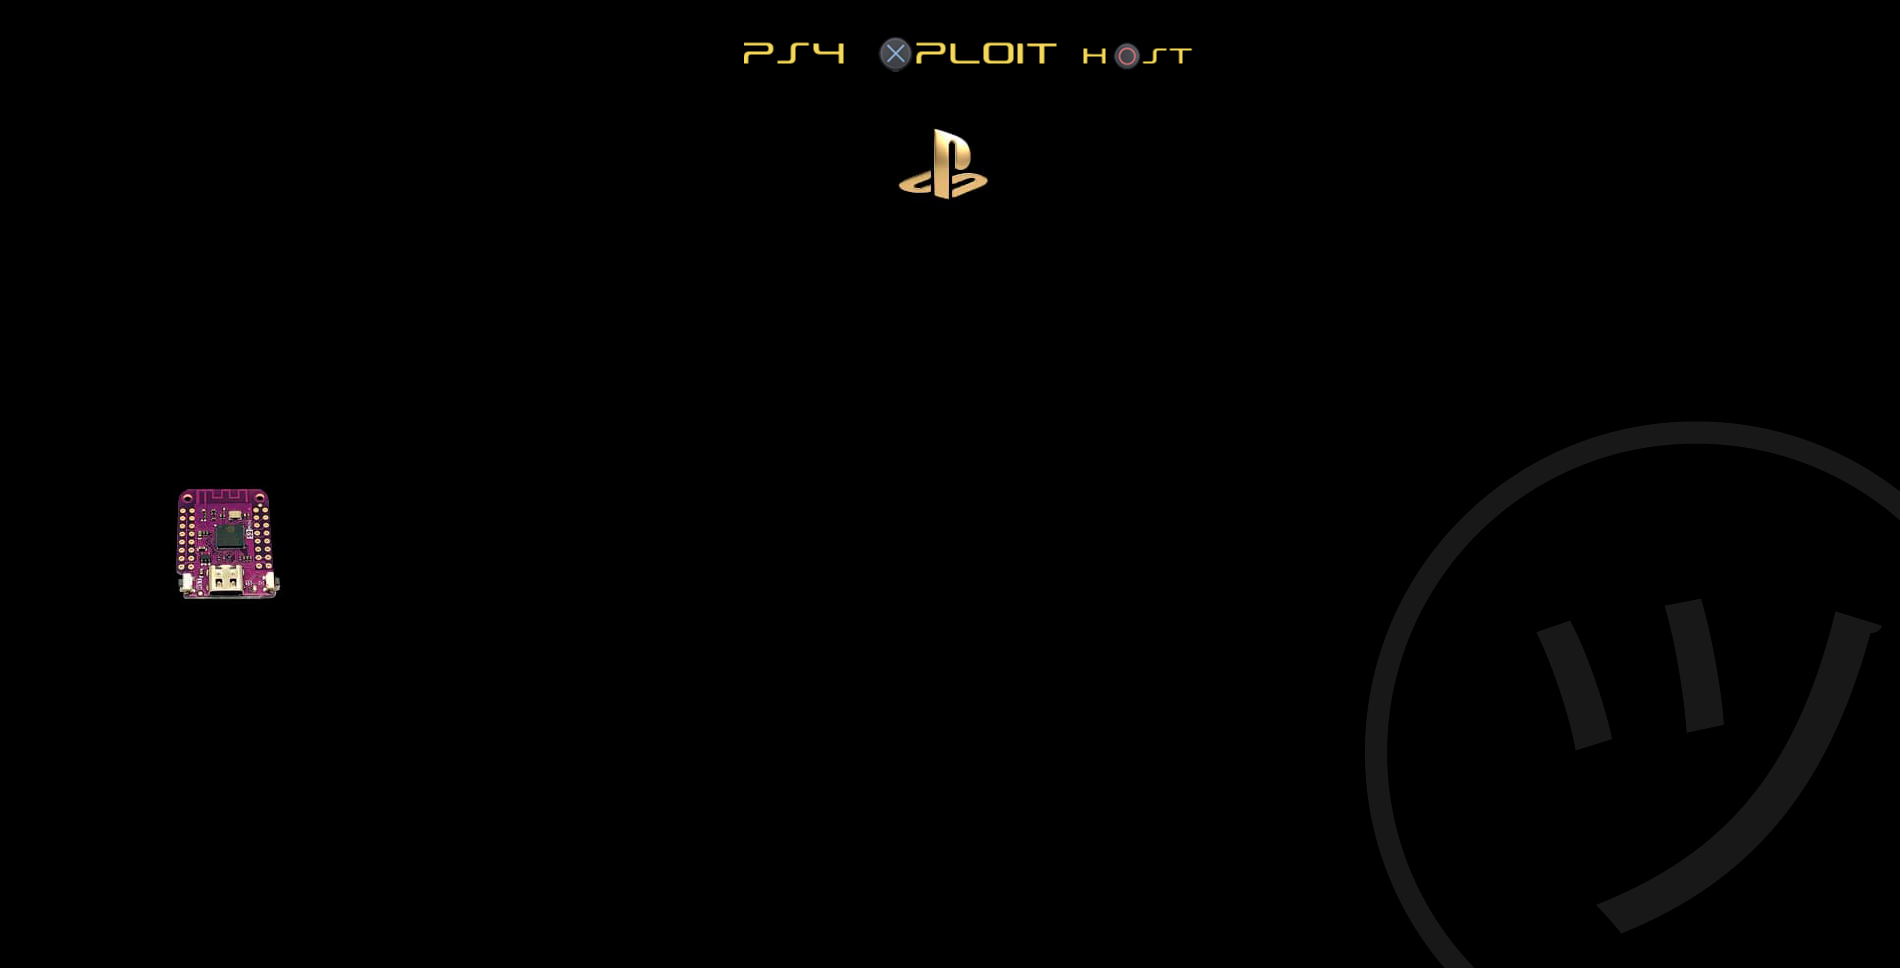
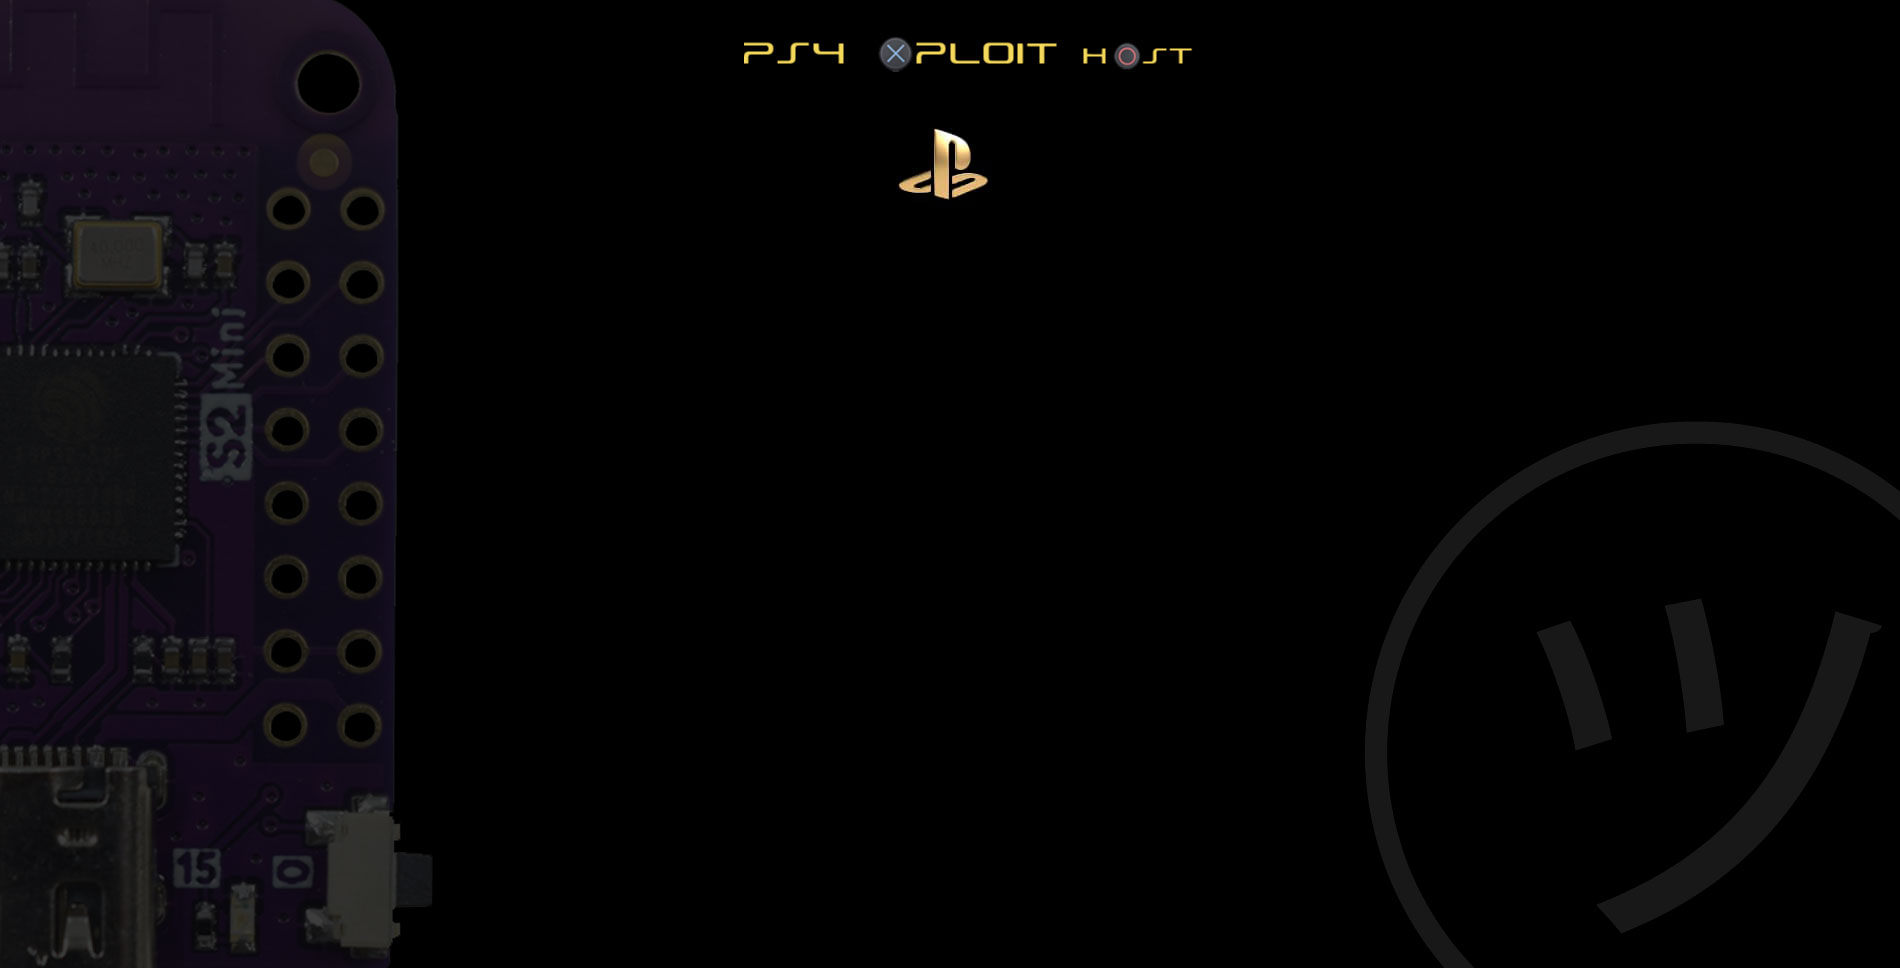
Add files via upload

Changed region(s): [[0.0, 0.0, 0.2174, 1.0]]

diff --git a/index.html b/index.html
@@ -22,11 +22,13 @@
 
       }
 
-      html,
+      html{
+	  
+	  border-bottom-color:#FFFF00; border-top: 4px solid #FFFC33;border-right: 19px solid #FFFC33;}
       body {
-       background-image:url(wallpaper.jpg); background-repeat:no-repeat; background-position:top; background-color:#000000; f
+       background-image:url(wallpaper.jpg); background-repeat:no-repeat; height:90%;  background-color:#000000; 
   
-  resize: both;
+
   
       }
       .tiles {
@@ -71,7 +73,7 @@
         display: flex;
         justify-content: center;
         align-items: center;
-        height: 100vh;
+        height: 100%;
 		color:#FFFFFF;
       }
     .Estilo1 {color: #FFFFFF}
@@ -119,14 +121,14 @@
       src="https://unpkg.com/esp-web-tools@8.0.6/dist/web/install-button.js?module"
     ></script>
 
-
+<br>
     <div class="esp32__webusb-container">
       <div class="esp32__webusb"><div class="Estilo1">Installer for ESP32-S2</div><br>
         <div class="Estilo1">★ PS4 SERVER XPLOIT ★</div><br>
         
 		<div class="Estilo1">WIFI: PS4_XPLOIT</div>
 		<div class="Estilo1">PASS: 12345678</div><br>
-    <img src="usb.svg">
+    <img src="usb.svg"><br>
         <esp-web-install-button
           manifest="webusb.manifest.json"
         ></esp-web-install-button>
